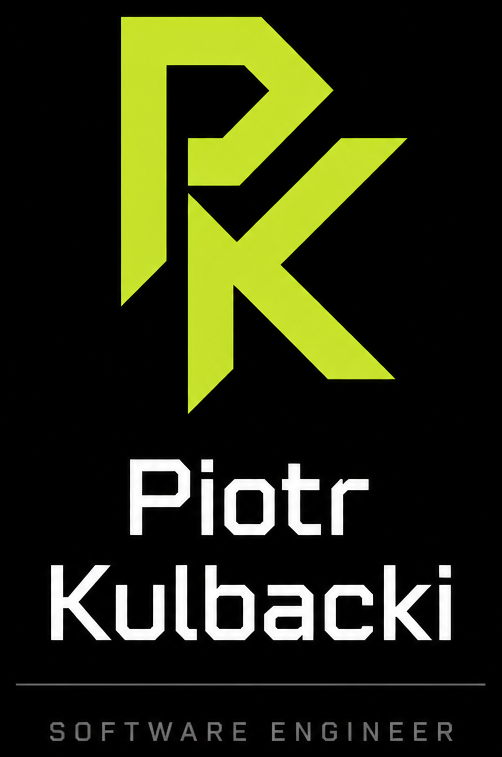
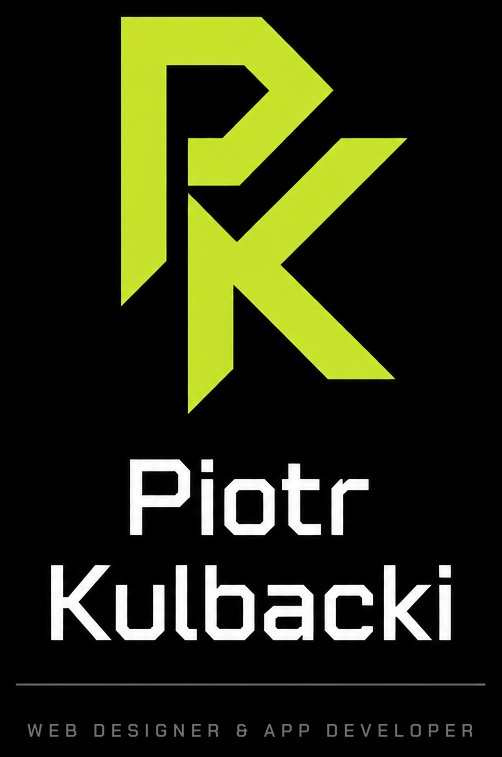
feat(landing): creator role uses the shared jobTitle, add DE/ES creator section
- Creator role, FAQ answer and lockup image use the jobTitle from the
  shared SEO standard (6.3) instead of "Software Engineer".
- DE and ES get the creator section and FAQ entry (body = approved 6.1 text).
- Home page sitemap lastmod bumped; post-merge SEO v2 checks recorded.

Changed region(s): [[0.0598, 0.9419, 0.9562, 1.0]]

diff --git a/apps/web/src/features/seo/sitemap-entries.ts b/apps/web/src/features/seo/sitemap-entries.ts
@@ -7,7 +7,7 @@ import { env } from '@web/env';
  * `changefreq` and `priority`, so they are not emitted.
  */
 const PUBLIC_PAGES = [
-  { path: '/', lastModified: '2026-11-27T12:00:00+01:00' },
+  { path: '/', lastModified: '2026-11-27T15:00:00+01:00' },
   { path: '/contact', lastModified: '2026-07-21T21:43:19+02:00' },
   { path: '/terms', lastModified: '2026-09-09T21:09:17+02:00' },
   { path: '/privacy', lastModified: '2026-09-09T21:09:17+02:00' },

diff --git a/docs/otwarte-sprawy.md b/docs/otwarte-sprawy.md
@@ -9,7 +9,7 @@ Aktualizacja: 2026-11-27. Jedyny plik stanu i przekazania pracy. Agent aktualizu
 - `main` = produkcja; merge PR przez użytkownika wdraża. Praca na gałęziach `codex/`, PR do `main`. Lokalnie tylko `npm run test:quality`; build, integracja i E2E w CI. Node 26 (`.nvmrc`). Po świeżym klonie/sync może być potrzebne `npm ci`.
 - Program bezpieczeństwa kont S00–S10: stan i szczegóły w `docs/security/STATUS.md` (S00–S04 ukończone, S05 scalone w PR #89).
 - Raporty zadań spoza programu bezpieczeństwa: `docs/reports/`.
-- SEO i dane strukturalne: obowiązuje wspólny standard czterech stron `~/Developer/ebook-shop/docs/seo-encje.md` (wersja 2; nie kopiować go tutaj). JSON-LD strony głównej: `apps/web/src/features/seo/home-json-ld.ts`, dane w `OPERATOR` / `OWNER_STRUCTURED_DATA` (`apps/web/src/lib/legal.ts`), ceny z `packages/shared/src/features/billing/pricing.ts`.
+- SEO i dane strukturalne: obowiązuje wspólny standard czterech stron `~/Developer/ebook-shop/docs/seo-encje.md` (wersja 2; nie kopiować go tutaj). JSON-LD strony głównej: `apps/web/src/features/seo/home-json-ld.ts`, dane w `OPERATOR` / `OWNER_STRUCTURED_DATA` (`apps/web/src/lib/legal.ts`), ceny z `packages/shared/src/features/billing/pricing.ts`. Standard v2 wdrożony (PR #94) i sprawdzony 2026-11-27 według sekcji 11 (wyniki: `docs/reports/2026-11-27-creator-jobtitle-de-es.md`). Po wdrożeniu ze zmianą treści: `npm run indexnow -w web` i nowa data w `apps/web/src/features/seo/sitemap-entries.ts`.
 
 ## 2. Decyzje właściciela
 
@@ -17,36 +17,26 @@ Aktualizacja: 2026-11-27. Jedyny plik stanu i przekazania pracy. Agent aktualizu
 - Wszystkie produkty należą do tej firmy: Lyamo (lyamo.eu), Cavunio (cavunio.com), Dokiero (dokiero.com).
 - Formaty i `@id` według sekcji 1.1 i 3 standardu: strona główna i `url` encji z ukośnikiem (`https://lyamo.eu/`), podstrony bez (jak canonical).
 - Stopka: „Założyciel: Piotr Kulbacki” z linkiem do piotrkulbacki.com (decyzja 2026-11-27, wzór: stopka sklepu); w „Moje produkty” Cavunio i Dokiero.
+- Rola osoby na stronie (sekcja twórcy, FAQ, obrazek logo) = `jobTitle` z 6.3 standardu, nie „Software Engineer” (decyzja 2026-11-27).
 - W danych strukturalnych bez ulicy (decyzja 10 standardu, 13.1); pełny adres tylko w Impressum.
+- Ceny i kody zostają bez zmian (decyzja 2026-11-27): Pro/Premium według `pricing.ts`, kod `PROMO50` (50%), `LYAMO100`. Promocja nie ma daty końca. Nowe ceny z 13.2 standardu to zadanie na przyszłość (sekcja 5).
 - Merge wykonuje wyłącznie użytkownik; bez auto-merge.
 - Promocja dwóch darmowych miesięcy pozostaje kuponem Stripe.
 
 ## 3. Działania dla właściciela
 
-- Merge PR „SEO według standardu v2” (gałąź `codex/seo-standard-v2`), potem agent robi kontrolę z sekcji 11 i zgłoszenie IndexNow (etap 9 niżej).
-- Sekcja 9 standardu dla lyamo.eu: Google Search Console (usługa domeny przez DNS, mapa `https://lyamo.eu/sitemap.xml`, „Sprawdzanie adresu URL” strony głównej po wdrożeniu), Bing Webmaster Tools (import z GSC, „URL Inspection”), profil Lyamo w ChatGPT business hub (sprawdzić warunki dla aplikacji).
-- Część B (nowe ceny z 13.2 standardu): decyzje 1–6 w `docs/reports/2026-11-27-seo-standard-v2.md`. Bez zgody nic nie jest zmieniane w kodzie ani w Stripe.
+- Merge PR „jobTitle w sekcji twórcy, DE/ES” (gałąź `codex/creator-jobtitle-de-es`); potem agent: `npm run indexnow -w web -- https://lyamo.eu/`.
+- Google Search Console i Bing Webmaster Tools są skonfigurowane, mapy przesłane (potwierdzone przez właściciela 2026-11-27). Opcjonalnie po wdrożeniu: „Sprawdzanie adresu URL” (GSC) i „URL Inspection” (Bing) strony głównej (sekcja 11 pkt 4 standardu; wymaga konta właściciela).
+- Profil Lyamo w ChatGPT business hub (sekcja 9 standardu): niezrobione, sprawdzić warunki dla aplikacji.
 - Program bezpieczeństwa: odbiór S05 i otwarcie nowego czatu dla S06 (polecenie w `docs/security/reports/S05.md`).
 
-## 4. Zadanie w toku: SEO według standardu v2 (gałąź `codex/seo-standard-v2`)
+## 4. Zadanie w toku
 
-Raport: `docs/reports/2026-11-27-seo-standard-v2.md`. Etapy części A:
-
-1. [x] JSON-LD według szablonu 5.3: `#lyamo` (`OnlineBusiness`), `#app` (`offers` z `pricing.ts`), `#website`; osoba tylko jako odwołanie.
-2. [x] `legal.ts`: nowe `@id` osoby, adresy z ukośnikiem, bez `sameAs` i `@id` innych marek.
-3. [x] Stopka: „Założyciel: Piotr Kulbacki” zamiast „Portfolio” (PL/EN/DE/ES).
-4. [x] Sekcja twórcy: opis z 6.1 (PL, EN).
-5. [x] Sitemap: stały `lastmod` per ścieżka, bez `changefreq` i `priority`. Przy istotnej zmianie strony aktualizować datę w `sitemap-entries.ts`.
-6. [x] IndexNow: klucz w `apps/web/public/`, `npm run indexnow -w web` po każdym wdrożeniu ze zmianą treści.
-7. [x] `llms.txt` (`/llms.txt`).
-8. [x] Checki lokalne (`test:quality`, `build:test`); PR do `main`, wynik CI w odpowiedzi agenta.
-9. [ ] Po merge: Schema Markup Validator i Rich Results Test dla https://lyamo.eu/, ręczny przegląd `@id`/typów (sekcja 3), skrypt zgodności czterech stron, `curl` jako OAI-SearchBot/Claude-SearchBot/PerplexityBot/Bingbot (200), sitemap bez `changefreq`/`priority`, `npm run indexnow -w web`; wynik zapisać tutaj.
-
-Stan przed merge (2026-11-27): piotrkulbacki.com, cavunio.com, dokiero.com już według v2; lyamo.eu jeszcze ze starym `@id` osoby. Roboty z tabeli 8.1 dostają 200 na stronach publicznych; BotID nie jest używany. Firewalla Vercel nie dało się odczytać (Vercel MCP nie widzi projektu lyamo).
+Brak. Ostatnie zadanie: kontrola po merge SEO v2 (PR #94) oraz `jobTitle` i tłumaczenia DE/ES sekcji twórcy; raport `docs/reports/2026-11-27-creator-jobtitle-de-es.md`, czeka na merge.
 
 ## 5. Inne otwarte sprawy
 
+- **Zadanie na przyszłość: nowe ceny Lyamo (13.2 standardu).** Nie zaczynać bez polecenia właściciela. Plan, kroki (Stripe, Vercel, kod) i kwestie prawne (PAngV § 11 / Omnibus): `docs/reports/2026-11-27-seo-standard-v2.md`, część B. Już rozstrzygnięte: promocja bez daty końca (decyzja 4). Do decyzji przy starcie: 1 (weryfikacja prawna), 2 (sposób pokazania obniżki), 3 (nazwa kodu przy 40%), 5 (istniejący subskrybenci), 6 (ceny w PLN, GBP, USD).
+- Rich Results Test (2026-11-27): element Software Apps prawidłowy, ale 8 uwag niekrytycznych „Invalid object type for field priceSpecification” dla `UnitPriceSpecification` w `offers` (Pro, Premium) oraz brak `aggregateRating`. Pole jest opcjonalne, wynik rozszerzony nie jest zablokowany. `UnitPriceSpecification` wynika z 13.2 wspólnego standardu, więc zmiana dotyczy też dokiero.com. Warianty: (a) zostawić; (b) usunąć `priceSpecification` i zostawić cenę w PLN w `Offer`; (c) osobna `Offer` na każdą walutę bez `priceSpecification`. Rekomendacja **(wniosek)**: (a) do czasu zmiany cen, potem zdecydować razem ze standardem.
+- `aggregateRating` / `review` aplikacji tylko z prawdziwych opinii widocznych na stronie.
 - Zastany, nieśledzony `docs/plan-api-mcp/` (plan API/MCP) — praca właściciela, nie ruszać bez polecenia.
-- Sprzeczność z 6.3 standardu (poza zakresem, decyzja właściciela): sekcja twórcy ma rolę „Twórca Lyamo · Software Engineer”, FAQ „Kim jest twórca Lyamo?” mówi „software engineer”, a obrazek `public/marketing/creator-lockup.png` ma napis „SOFTWARE ENGINEER”. Standard zastępuje to `jobTitle` „Projektant stron internetowych i twórca aplikacji”. Propozycja: nowe teksty roli i FAQ z 6.3 oraz nowy obrazek albo jego usunięcie.
-- DE i ES nie mają tłumaczeń `landing.creator` ani `landing.faq.creator` i pokazują EN. Opis z 6.1 jest zatwierdzony w DE i ES, ale tytuł, rola i CTA wymagają tłumaczenia.
-- `aggregateRating` / `review` aplikacji tylko z prawdziwych opinii widocznych na stronie; bez nich Google nie pokaże wyniku rozszerzonego Software App („You must include one of the following properties”).

diff --git a/docs/reports/2026-11-27-creator-jobtitle-de-es.md b/docs/reports/2026-11-27-creator-jobtitle-de-es.md
@@ -1,0 +1,22 @@
+# Kontrola po merge SEO v2, `jobTitle` w sekcji twórcy, DE/ES (2026-11-27)
+
+## Kontrola po merge PR #94 (sekcja 11 standardu `~/Developer/ebook-shop/docs/seo-encje.md`)
+
+- Skrypt zgodności czterech stron: lyamo.eu ma `OnlineBusiness` `https://lyamo.eu/#lyamo`, `WebApplication` `https://lyamo.eu/#app`, `WebSite` `https://lyamo.eu/#website`, osoba `https://piotrkulbacki.com/#person`; zgodnie z sekcją 3. Starego `https://cavunio.com/#piotr-kulbacki` brak na produkcji.
+- Schema Markup Validator (https://lyamo.eu/): 0 błędów, 0 ostrzeżeń.
+- Rich Results Test (https://lyamo.eu/): 2 prawidłowe elementy (Organization, Software Apps). Software Apps: 9 uwag niekrytycznych: brak `aggregateRating` (opcjonalne) i 8× „Invalid object type for field priceSpecification” (opcjonalne) dla `UnitPriceSpecification` w ofertach Pro i Premium. Opis i warianty: `docs/otwarte-sprawy.md`, sekcja 5.
+- `curl` jako OAI-SearchBot, Claude-SearchBot, PerplexityBot, Bingbot, Googlebot na `/`, `/sitemap.xml`, `/robots.txt`, `/llms.txt`: 200.
+- `sitemap.xml`: stały `lastmod`, bez `changefreq` i `priority`.
+- IndexNow: plik klucza dostępny, `npm run indexnow -w web`: 5 adresów, HTTP 202.
+
+## Zmiany
+
+- Rola w sekcji twórcy (`landing.creator.role`) = `jobTitle` z 6.3 standardu w każdym języku (PL „Projektant stron internetowych i twórca aplikacji”, EN „Web designer and app developer”, DE „Webdesigner und App-Entwickler”, ES „Diseñador web y desarrollador de aplicaciones”). Wcześniej „Twórca Lyamo · Software Engineer”.
+- FAQ „Kim jest twórca Lyamo?” (PL, EN): „software engineer” zastąpione `jobTitle`.
+- Obrazek `apps/web/public/marketing/creator-lockup.png`: wersja z napisem „WEB DESIGNER & APP DEVELOPER” z `my-business-card/public/brand/ui-lockup-stacked.png` (ten sam rozmiar 502×757). `lockupAlt` w 4 językach opisuje nowy napis.
+- DE i ES: pełna sekcja `landing.creator` i `landing.faq.creator`. `body` = opis 6.1 słowo w słowo; tytuł, rola, CTA, teksty alternatywne i FAQ przetłumaczone przez agenta (DE w formie „du”, ES w formie „tú”, jak reszta strony).
+- `sitemap-entries.ts`: `lastmod` strony głównej 2026-11-27T15:00:00+01:00.
+
+## Po merge
+
+`npm run indexnow -w web -- https://lyamo.eu/`.
